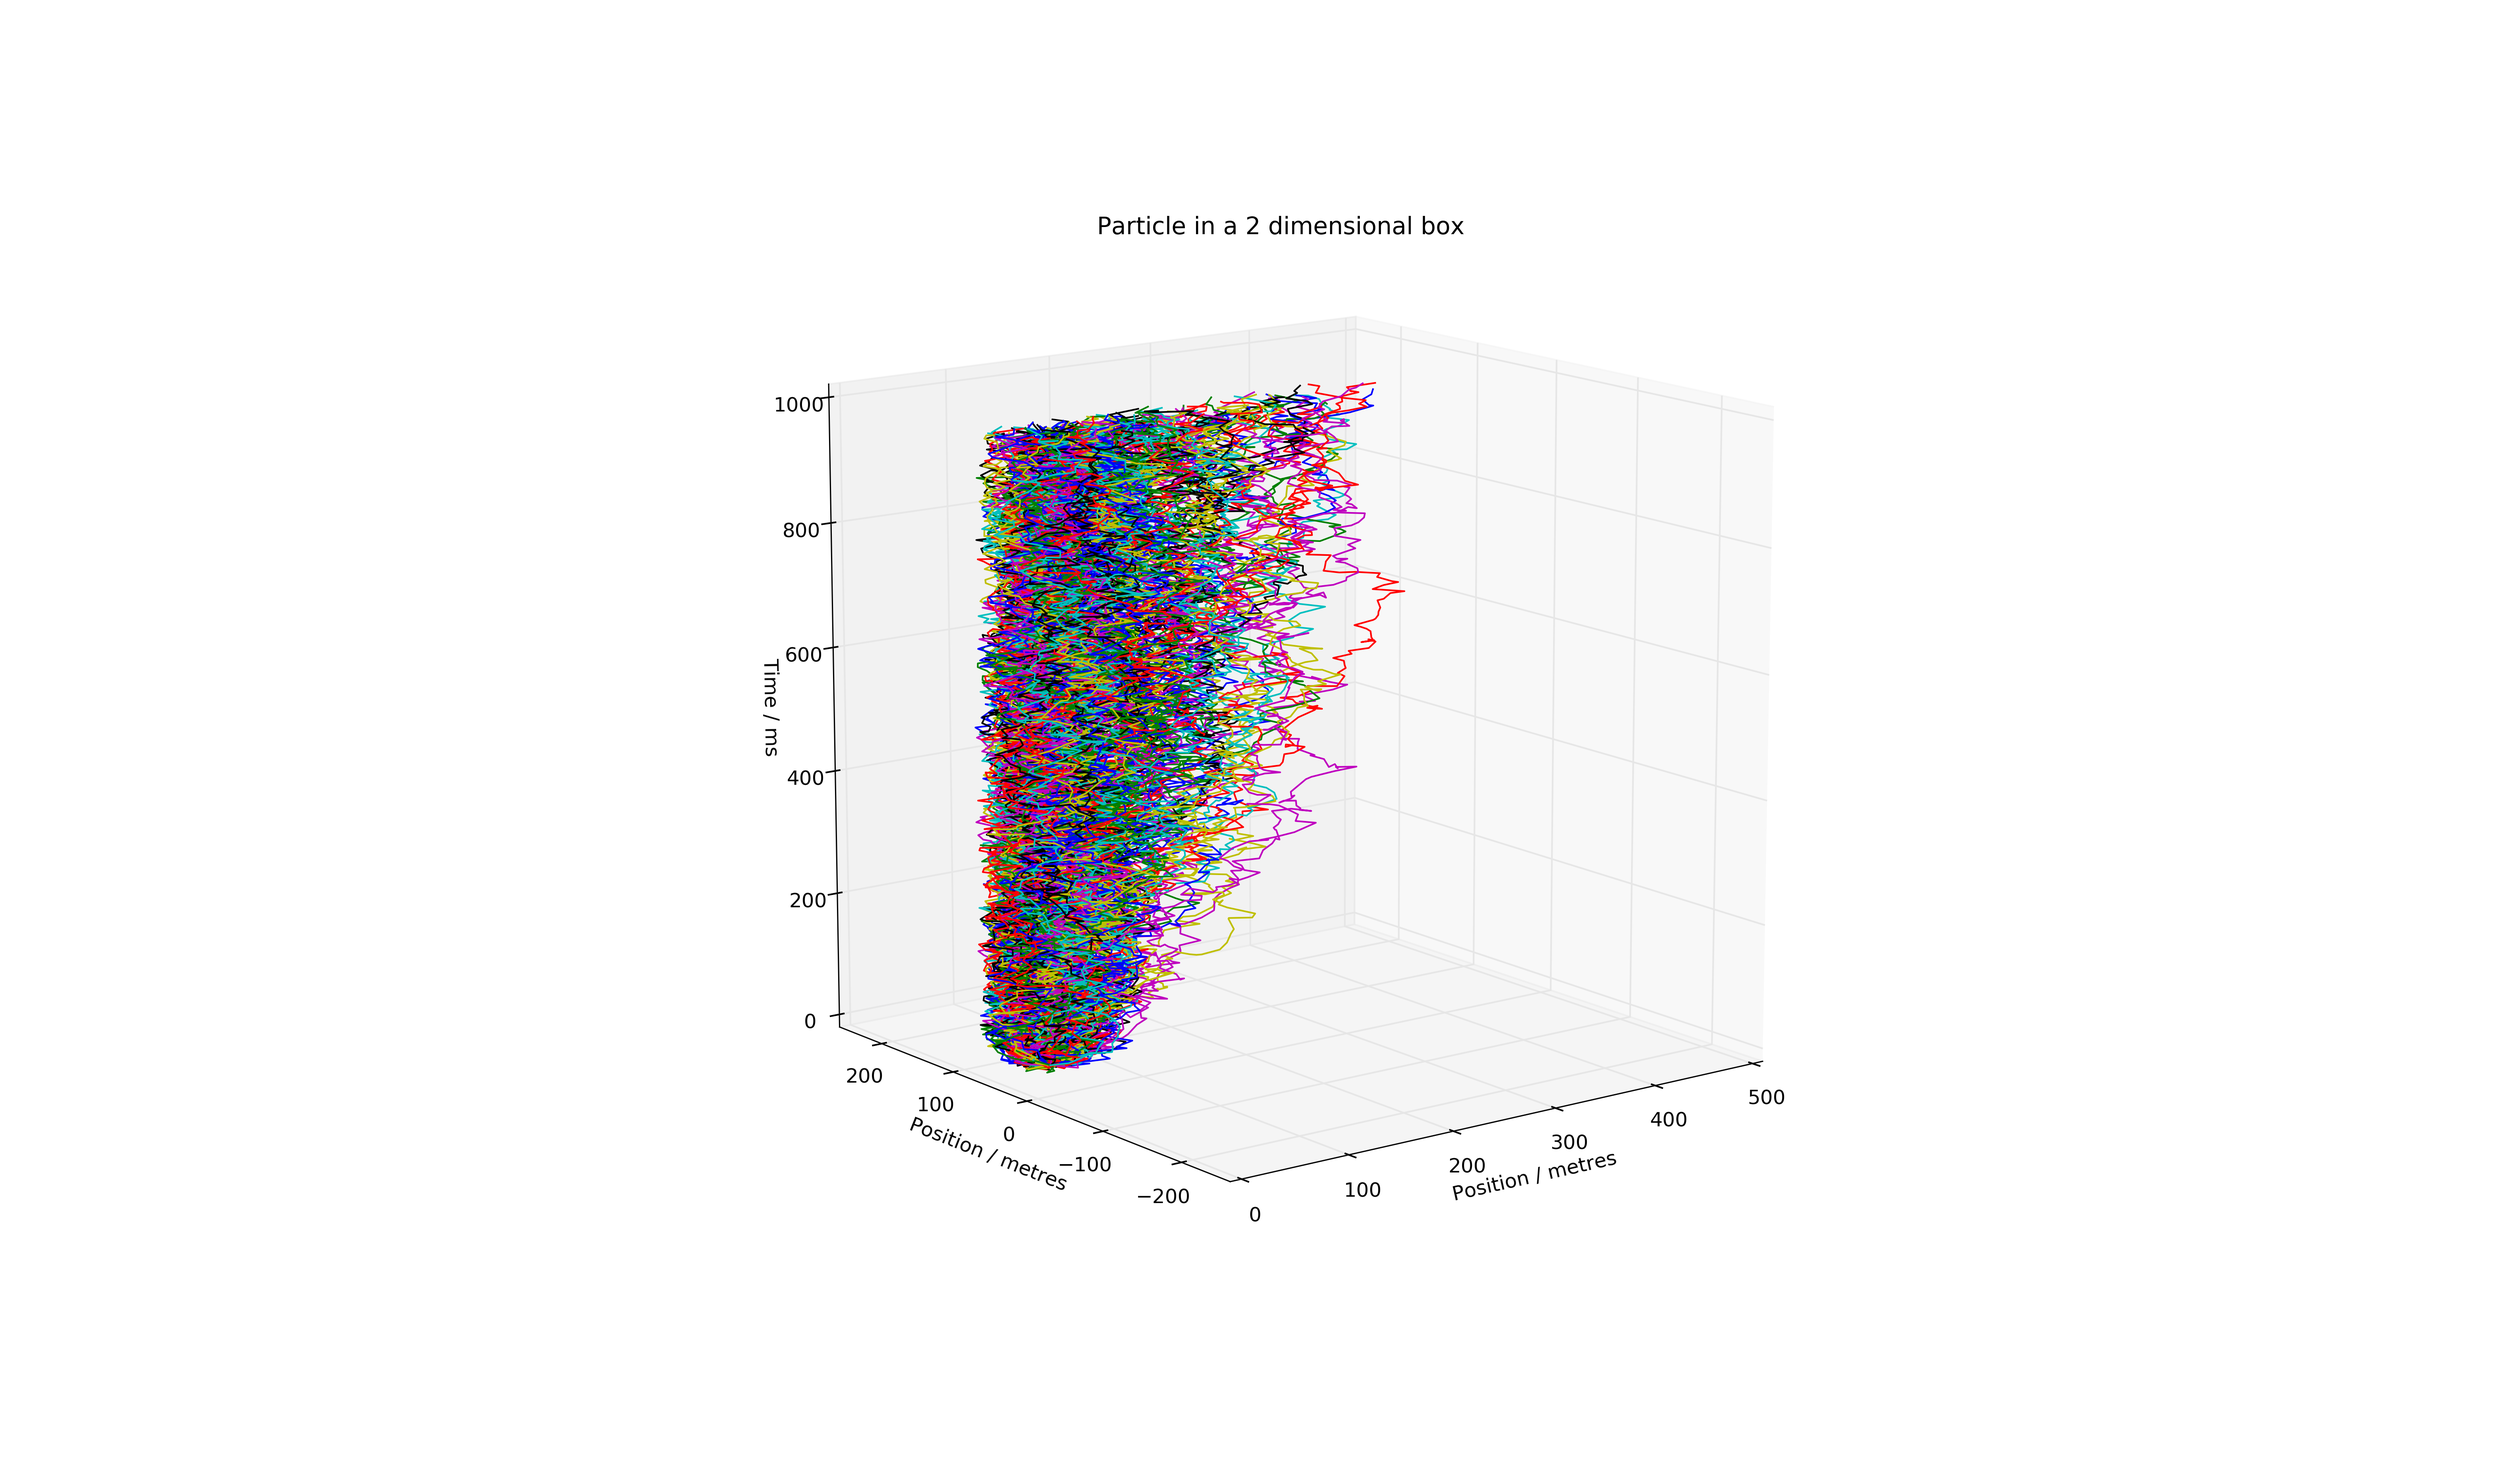
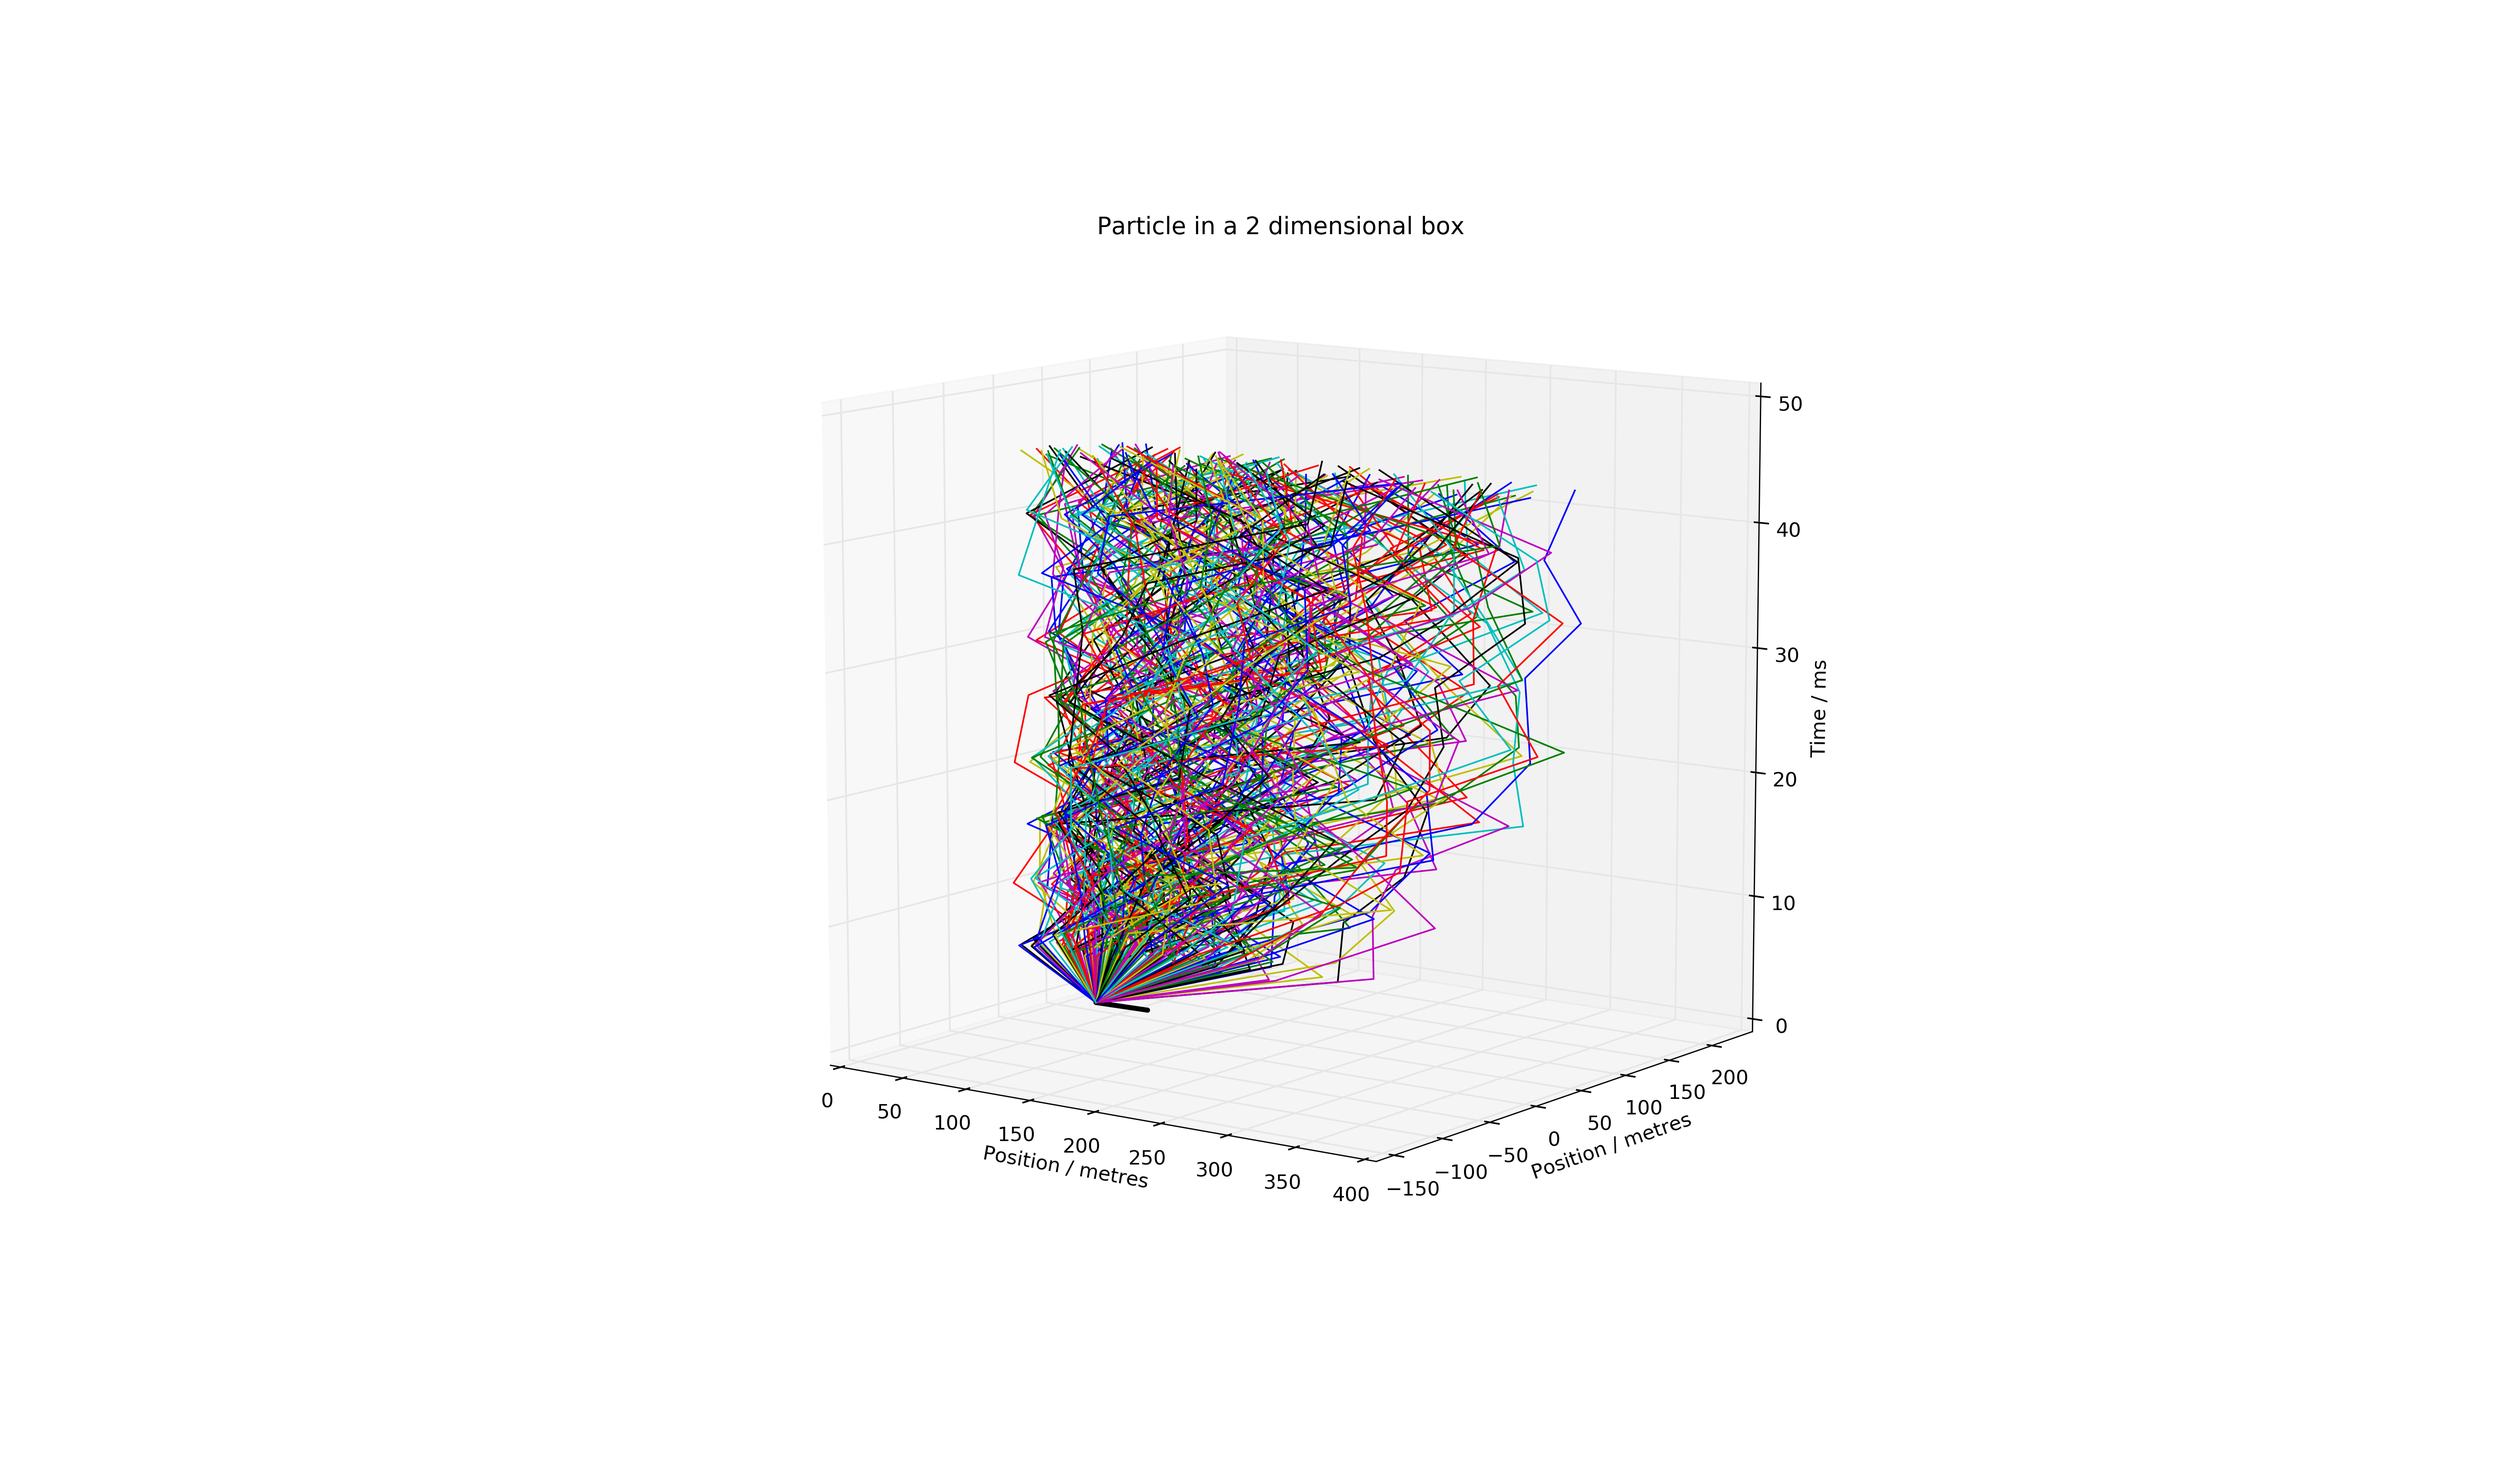
plots working

Changed region(s): [[0.343, 0.2495, 0.6237, 0.8108], [0.5302, 0.7172, 0.7173, 0.8108], [0.3119, 0.2495, 0.343, 0.2806]]

diff --git a/plotLightCone.py b/plotLightCone.py
@@ -1,13 +1,36 @@
 #!/usr/bin/env python
 """output a 2D and 3D plot of the monte carlo path sampling"""
-from agent import log_volume_fractions
 from json import load
 from matplotlib import pyplot as plt
 from mpl_toolkits.mplot3d import Axes3D
+from scipy.stats import gaussian_kde
 from numpy import array
+import numpy as np
+from mpl_toolkits.mplot3d import Axes3D
+from matplotlib.patches import FancyArrowPatch
+from mpl_toolkits.mplot3d import proj3d
 
 
-def get_walks_and_force(cur_macrostate, num_sample_paths, environment):
+class Arrow3D(FancyArrowPatch):
+    def __init__(self, xs, ys, zs, *args, **kwargs):
+        FancyArrowPatch.__init__(self, (0,0), (0,0), *args, **kwargs)
+        self._verts3d = xs, ys, zs
+
+    def draw(self, renderer):
+        xs3d, ys3d, zs3d = self._verts3d
+        xs, ys, zs = proj3d.proj_transform(xs3d, ys3d, zs3d, renderer.M)
+        self.set_positions((xs[0],ys[0]),(xs[1],ys[1]))
+        FancyArrowPatch.draw(self, renderer)
+
+
+def log_volume_fractions(walks):
+    'return log_volume_fractions on a set of random walks'
+    points = array([w[-1] for w in walks])
+    kernel = gaussian_kde(points.T)
+    return [-kernel.logpdf(w[-1]) for w in walks], kernel
+
+
+def causal(cur_macrostate, num_sample_paths, environment):
     'calculate the path integral'
     # Monte Carlo path sampling
     walks, sample_paths, initial_forces = [], [], []
@@ -28,14 +51,14 @@ def get_walks_and_force(cur_macrostate, num_sample_paths, environment):
         sample_paths.append(walk[1:])
         initial_forces.append(force)
     # Kernel Density Estimation of log volume fractions
-    log_volume_fracs = log_volume_fractions(sample_paths)
+    log_volume_fracs, kernel = log_volume_fractions(sample_paths)
     # sum force contributions
     force = sum([f*log_volume_fracs[i] for i, f in enumerate(initial_forces)])
     force = 2.0 * environment.TC * force / (environment.TR * num_sample_paths)
-    return walks, force
+    return walks, force, kernel
 
 
-def plot_2D(walks, environment):
+def plot_2D(walks, environment, cur_macrostate, difference):
     '2D plot of paths'
     fig = plt.figure()
     ax = fig.add_subplot(111, aspect = 'equal')
@@ -46,28 +69,61 @@ def plot_2D(walks, environment):
     ax.set_ylabel("Position / metres")
     for walk in walks:
         walk_plot = [[w[i] for w in walk] for i in range(environment.DIMS)]
-        ax.plot(walk_plot[0], walk_plot[1])
+        ax.plot(walk_plot[0][:50], walk_plot[1][:50], zorder=0)
+    ax.arrow(cur_macrostate[0], cur_macrostate[1], difference[0], difference[1], width=3.0, head_width=9.0, shape='full', facecolor='black', zorder=10)
     plt.show()
     fig.savefig('images/particleBoxLightCone2D.png', dpi=300)
 
 
-def plot_3D(walks, environment):
+def plot_3D(walks, environment, cur_macrostate, difference):
     '2D plot of paths'
     fig = plt.figure()
     ax = fig.add_subplot(111, projection='3d', aspect = 'equal')
     ax.set_title("Particle in a 2 dimensional box")
-    ax.set_xlim(0.0, 500.0)
-    ax.set_ylim(-250.0, 250.0)
-    ax.set_zlim(0.0, 1000.0)
+    ax.set_xlim(0.0, 400.0)
+    ax.set_ylim(-160.0, 240.0)
+    ax.set_zlim(0.0, 50.0)
     ax.set_xlabel("Position / metres")
     ax.set_ylabel("Position / metres")
     ax.set_zlabel("Time / ms")
     for walk in walks:
         walk_plot = [[w[i] for w in walk] for i in range(environment.DIMS)]
-        ax.plot(walk_plot[0], walk_plot[1], 5.0*array(range(len(walk_plot[0]))))
+        ax.plot(walk_plot[0][:10], walk_plot[1][:10], 5.0*array(range(len(walk_plot[0][:10]))))
+    arrow_prop_dict = dict(linewidth=3.0, mutation_scale=1.0, arrowstyle='-|>', color='k', shrinkA=0, shrinkB=0)
+    a = Arrow3D([cur_macrostate[0], cur_macrostate[0] + difference[0]], [cur_macrostate[1], cur_macrostate[1] + difference[1]], [0.0, 0.0], **arrow_prop_dict)
+    ax.add_artist(a)
     plt.show()
     fig.savefig('images/particleBoxLightCone.png', dpi=300)
     
+
+def plot_kernel(kernel, cur_macrostate, difference):
+    xmin, xmax = 0, 400
+    ymin, ymax = 0, 80
+
+    # Peform the kernel density estimate
+    xx, yy = np.mgrid[xmin:xmax:100j, ymin:ymax:100j]
+    positions = np.vstack([xx.ravel(), yy.ravel()])
+    f = np.reshape(kernel(positions).T, xx.shape)
+
+    fig = plt.figure()
+    ax = fig.add_subplot(111, aspect = 'equal')
+    ax.set_xlim(xmin, xmax)
+    ax.set_ylim(ymin, ymax)
+    # Contourf plot
+    cfset = ax.contourf(xx, yy, f, cmap='Blues')
+    ## Or kernel density estimate plot instead of the contourf plot
+    ax.imshow(np.rot90(f), cmap='Blues', extent=[xmin, xmax, ymin, ymax])
+    # Contour plot
+    cset = ax.contour(xx, yy, f, colors='k')
+    # Label plot
+    ax.clabel(cset, inline=1, fontsize=10)
+    ax.set_xlabel('Position / metres')
+    ax.set_ylabel('Position / metres')
+    ax.set_title("Particle in a 2 dimensional box")
+    ax.arrow(cur_macrostate[0], cur_macrostate[1], difference[0], difference[1], width=3.0, head_width=9.0, shape='full', facecolor='black')
+    plt.show()
+    fig.savefig('images/density.png', dpi=300)
+
     
 if __name__ == "__main__":
     # open config.json
@@ -86,6 +142,10 @@ if __name__ == "__main__":
         cur_macrostate = environment.start
     
     # calculate the force and walks in cur_macrostate to plot graphs
-    walks, force = get_walks_and_force(cur_macrostate, num_sample_paths, environment)
-    #plot_3D(walks, environment)
-    #plot_2D(walks, environment)
+    walks, force, kernel = causal(cur_macrostate, num_sample_paths, environment)
+    difference = environment.step_macrostate(array([0.0, 0.0]), force)
+    plot_kernel(kernel, cur_macrostate, difference)
+    plot_3D(walks, environment, cur_macrostate, difference)
+    plot_2D(walks, environment, cur_macrostate, difference)
+    
+    

diff --git a/particleBox.py b/particleBox.py
@@ -32,7 +32,7 @@ class particleBox:
         random = self.DISTRIBUTION.rvs(self.DIMS)
         force = self.AMPLITUDE * random + self.MEAN
         euler = (self.TIMESTEP ** 2.0) / (2.0 * self.MASS)
-        constant = 5.0 #2.0 / self.TIMESTEP
+        constant = 2.0 / self.TIMESTEP
         pos = cur_state + force * euler * constant
         return pos, force
     
